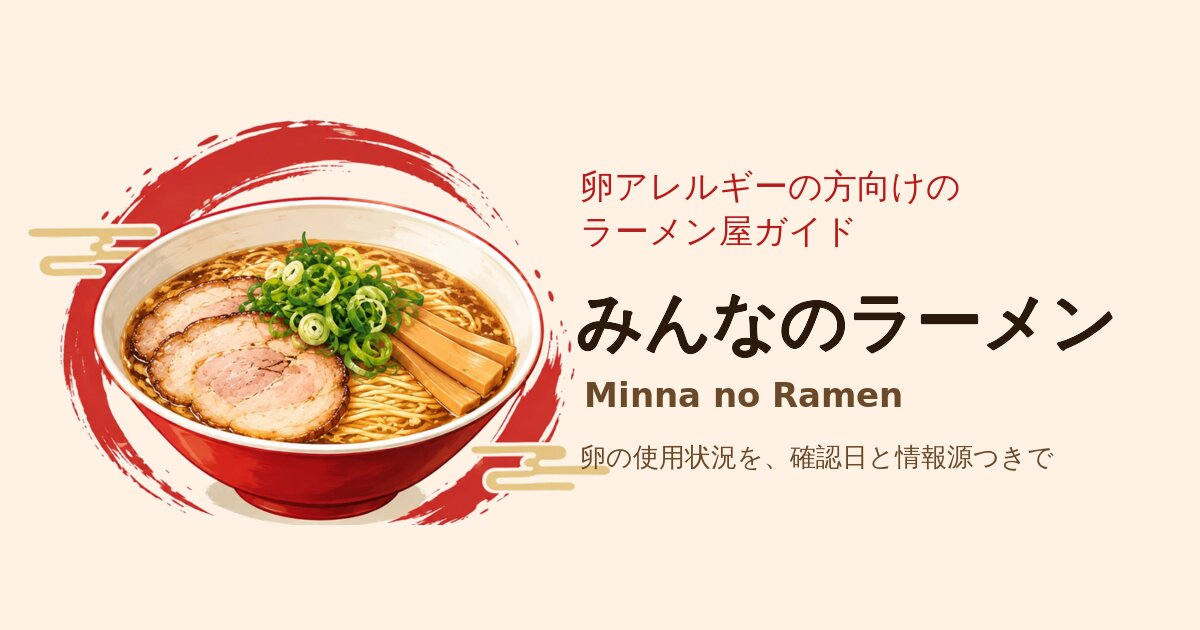
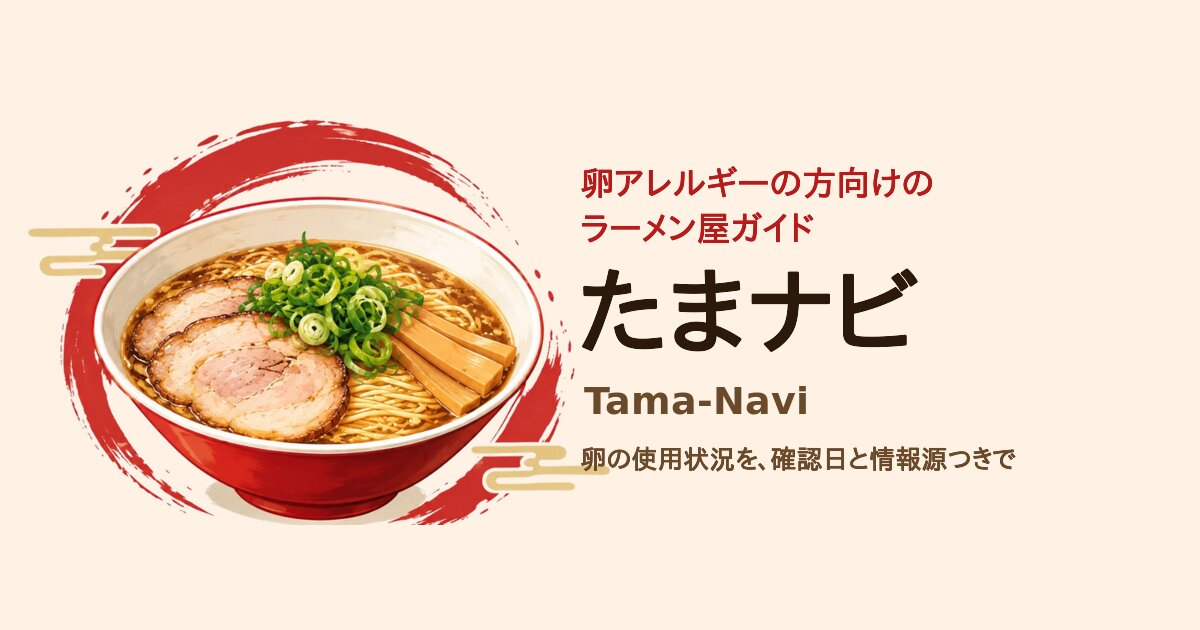
Preview site rename to たまナビ / Tama-Navi; use Japanese font in share image
Claude-Session: https://claude.ai/code/session_01NBBAYcYMCPryXJrFt2qjww

diff --git a/test/controllers/static_pages_controller_test.rb b/test/controllers/static_pages_controller_test.rb
@@ -5,24 +5,24 @@ class StaticPagesControllerTest < ActionDispatch::IntegrationTest
   test "should get home" do
     get root_path
     assert_response :success
-    assert_select "title", "みんなのラーメン | 卵アレルギーの方向けのラーメン屋ガイド"
+    assert_select "title", "たまナビ | 卵アレルギーの方向けのラーメン屋ガイド"
   end
 
   test "should get help" do
     get help_path
     assert_response :success
-    assert_select "title", "ヘルプ | みんなのラーメン"
+    assert_select "title", "ヘルプ | たまナビ"
   end
 
   test "should get about" do
     get about_path
     assert_response :success
-    assert_select "title", "このサイトについて | みんなのラーメン"
+    assert_select "title", "このサイトについて | たまナビ"
   end
 
   test "should get contact" do
     get contact_path
     assert_response :success
-    assert_select "title", "お問い合わせ | みんなのラーメン"
+    assert_select "title", "お問い合わせ | たまナビ"
   end
 end

diff --git a/test/integration/legal_and_locale_test.rb b/test/integration/legal_and_locale_test.rb
@@ -4,7 +4,7 @@ class LegalAndLocaleTest < ActionDispatch::IntegrationTest
   test "privacy policy shows operator and contact" do
     get privacy_path
     assert_response :success
-    assert_select "title", "プライバシーポリシー | みんなのラーメン"
+    assert_select "title", "プライバシーポリシー | たまナビ"
     assert_match "TOK Works", response.body
     assert_select "a[href=?]", "mailto:ramen-guide@tokworks.jp"
     assert_match "外国にある事業者", response.body
@@ -33,8 +33,8 @@ class LegalAndLocaleTest < ActionDispatch::IntegrationTest
     assert_response :success
     assert_select "html[lang=en]"
     assert_select ".ribbon", "Egg allergy ramen guide"
-    assert_select "a#logo .logo-main", "Minna no Ramen"
-    assert_select "title", /Minna no Ramen/
+    assert_select "a#logo .logo-main", "Tama-Navi"
+    assert_select "title", /Tama-Navi/
     assert_select ".locale-switch a[href=?]", "/"
     # 英語ページ内のリンクは英語のまま
     assert_select "a[href=?]", "/en/shops"

diff --git a/test/mailers/user_mailer_test.rb b/test/mailers/user_mailer_test.rb
@@ -6,7 +6,7 @@ class UserMailerTest < ActionMailer::TestCase
     user = users(:michael)
     user.activation_token = User.new_token
     mail = UserMailer.account_activation(user)
-    assert_equal "【みんなのラーメン】アカウントの有効化", mail.subject
+    assert_equal "【たまナビ】アカウントの有効化", mail.subject
     assert_equal [user.email], mail.to
     assert_equal ["ramen-guide@tokworks.jp"], mail.from
     assert_match user.name,               mail.text_part.decoded
@@ -18,7 +18,7 @@ class UserMailerTest < ActionMailer::TestCase
     user = users(:michael)
     user.reset_token = User.new_token
     mail = UserMailer.password_reset(user)
-    assert_equal "【みんなのラーメン】パスワードの再設定", mail.subject
+    assert_equal "【たまナビ】パスワードの再設定", mail.subject
     assert_equal [user.email], mail.to
     assert_equal ["ramen-guide@tokworks.jp"], mail.from
     assert_match user.reset_token,        mail.text_part.decoded

diff --git a/test/services/brevo_delivery_test.rb b/test/services/brevo_delivery_test.rb
@@ -62,9 +62,9 @@ class BrevoDeliveryTest < ActiveSupport::TestCase
 
     payload = JSON.parse(request.body)
     assert_equal "ramen-guide@tokworks.jp", payload["sender"]["email"]
-    assert_equal "みんなのラーメン", payload["sender"]["name"]
+    assert_equal "たまナビ", payload["sender"]["name"]
     assert_equal [{ "email" => @user.email }], payload["to"]
-    assert_equal "【みんなのラーメン】アカウントの有効化", payload["subject"]
+    assert_equal "【たまナビ】アカウントの有効化", payload["subject"]
     assert_match @user.activation_token, payload["htmlContent"]
     assert_match @user.activation_token, payload["textContent"]
   end

diff --git a/test/integration/home_page_test.rb b/test/integration/home_page_test.rb
@@ -8,7 +8,7 @@ class HomePageTest < ActionDispatch::IntegrationTest
     assert_select ".home-notice", /安全を保証するものではありません/
     assert_select "a[href=?]", signup_path
     assert_select "a#logo .logo-ribbon", "卵アレルギーの方向けのラーメン屋ガイド"
-    assert_select "a#logo .logo-main", "みんなのラーメン"
+    assert_select "a#logo .logo-main", "たまナビ"
     assert_select "a#logo img.logo-icon"
   end
 

diff --git a/app/helpers/application_helper.rb b/app/helpers/application_helper.rb
@@ -1,5 +1,5 @@
 module ApplicationHelper
-  SITE_NAME = "みんなのラーメン".freeze
+  SITE_NAME = "たまナビ".freeze
   SITE_NAME_EN = "EGG ALLERGY RAMEN GUIDE".freeze
   OPERATOR_NAME = "TOK Works".freeze
   CONTACT_EMAIL = "ramen-guide@tokworks.jp".freeze
